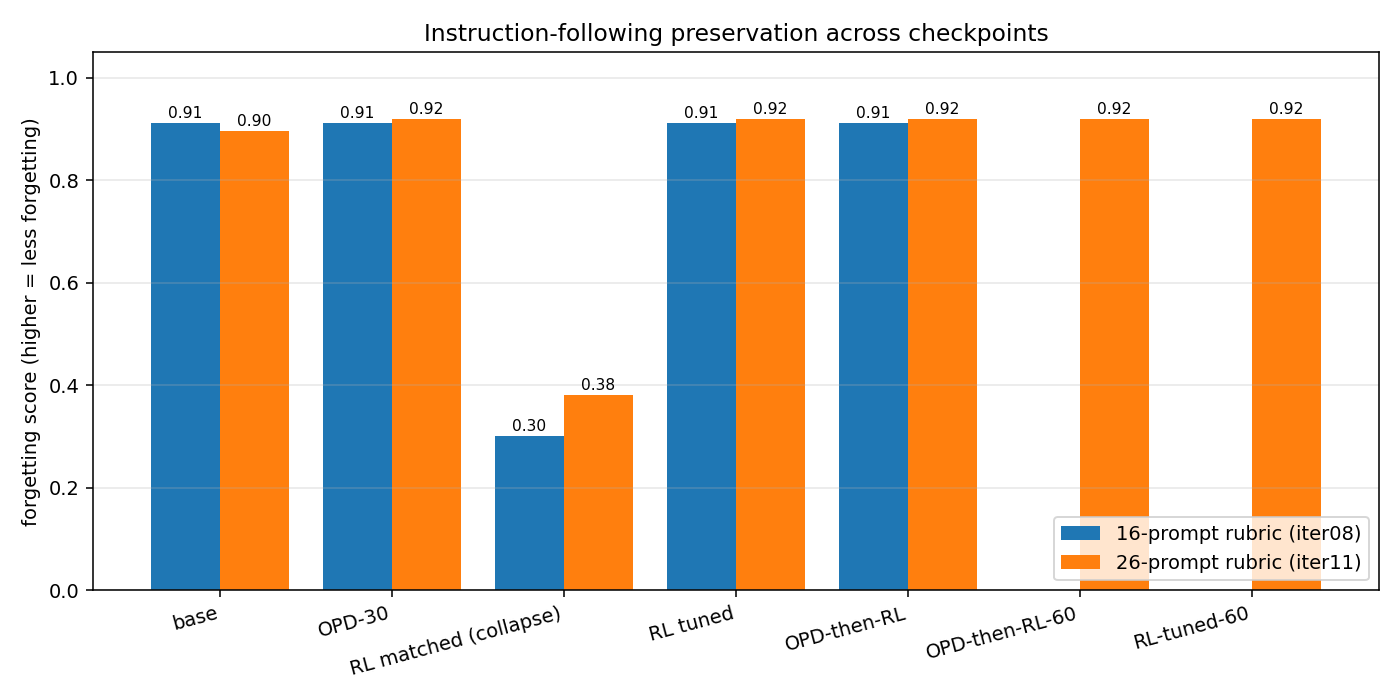
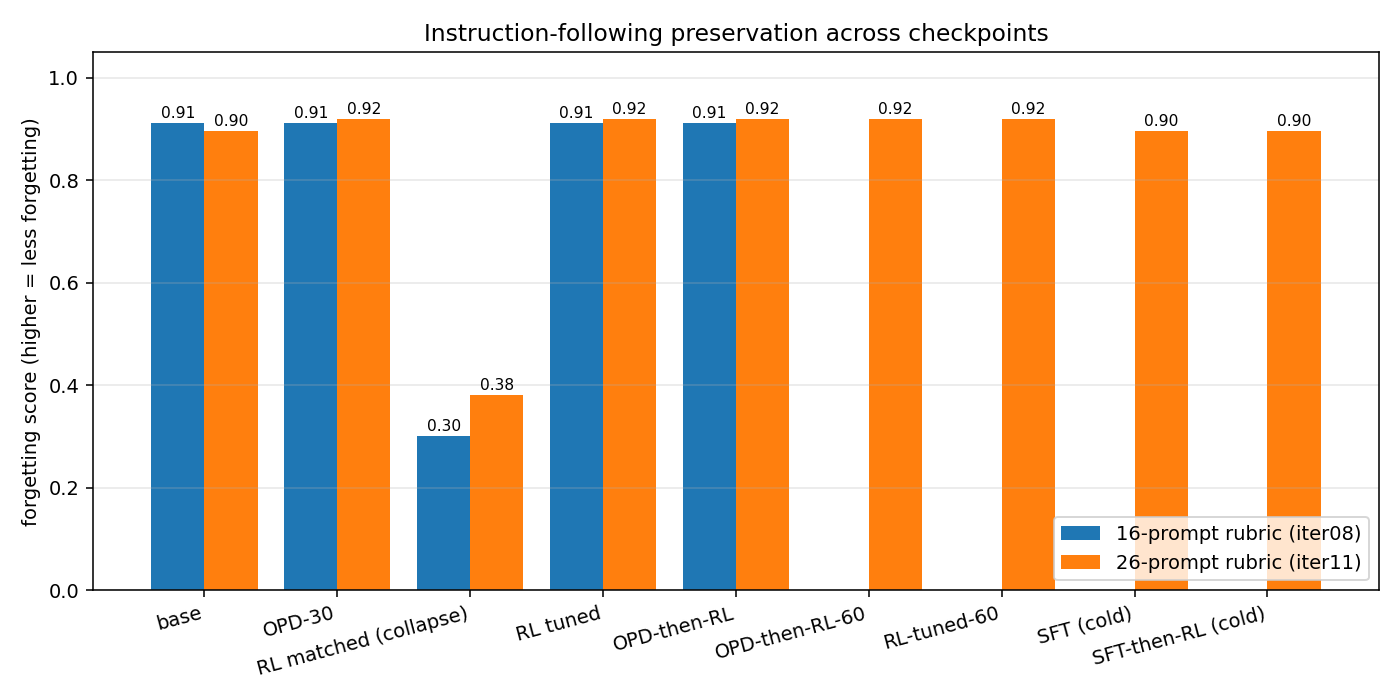
opd-rl: SFT forgetting eval (0.896 = no forgetting on both SFT-only and SFT-then-RL); update findings.md + figures

diff --git a/experiments/opd_rl/make_figures.py b/experiments/opd_rl/make_figures.py
@@ -139,7 +139,7 @@ scores16 = [
     json.loads((DATA / "forgetting-rl-tuned.json").read_text())["forgetting_score"],
     json.loads((DATA / "forgetting-opd-then-rl.json").read_text())["forgetting_score"],
 ]
-labels26 = labels16 + ["OPD-then-RL-60", "RL-tuned-60"]
+labels26 = labels16 + ["OPD-then-RL-60", "RL-tuned-60", "SFT (cold)", "SFT-then-RL (cold)"]
 scores26 = [
     json.loads((DATA / "forgetting2-base.json").read_text())["forgetting_score"],
     json.loads((DATA / "forgetting2-opd30.json").read_text())["forgetting_score"],
@@ -148,6 +148,8 @@ scores26 = [
     json.loads((DATA / "forgetting2-opd-then-rl.json").read_text())["forgetting_score"],
     json.loads((DATA / "forgetting2-opd-then-rl-60.json").read_text())["forgetting_score"],
     json.loads((DATA / "forgetting2-rl-tuned-60.json").read_text())["forgetting_score"],
+    json.loads((DATA / "forgetting2-sft-v2.json").read_text())["forgetting_score"],
+    json.loads((DATA / "forgetting2-sft-then-rl-v2.json").read_text())["forgetting_score"],
 ]
 
 fig, ax = plt.subplots(figsize=(10, 5))

diff --git a/experiments/opd_rl/findings.md b/experiments/opd_rl/findings.md
@@ -216,13 +216,13 @@ Tested whether the OPD-then-RL win scales with student "cold-start" — i.e. whe
 
 ### Five-way comparison on countdown-v2
 
-| variant                | last-10 mean correct | notes                                                        |
-| ---------------------- | -------------------- | ------------------------------------------------------------ |
-| RL-only (iter15)       | 16.5%                | RL barely moves from step-0 floor — signal too sparse        |
-| OPD-only (iter16)      | 12.4% (27/30 steps¹) | **WORSE than RL** — teacher KL pulls student toward teacher's already-weak distribution |
-| OPD-then-RL (iter17)   | 9.1%                 | peak 32% at step 17, then **declines** — RL gradient on cold env *degrades* the OPD warmstart |
-| SFT-only (iter18)      | 32.8% pass@1 / 45% pass@8 (step-0 iter19) | filtered-correct teacher data (276 examples), 4 epochs       |
-| **SFT-then-RL (iter19)** | **48.7% (peak 64%)** | per-decade 43→49→49% — RL builds on SFT init                |
+| variant                | last-10 mean correct | forgetting (26-prompt) | notes                                                        |
+| ---------------------- | -------------------- | ----- | ------------------------------------------------------------ |
+| RL-only (iter15)       | 16.5%                | (n/a) | RL barely moves from step-0 floor — signal too sparse        |
+| OPD-only (iter16)      | 12.4% (27/30 steps¹) | (n/a) | **WORSE than RL** — teacher KL pulls student toward teacher's already-weak distribution |
+| OPD-then-RL (iter17)   | 9.1%                 | (n/a) | peak 32% at step 17, then **declines** — RL gradient on cold env *degrades* the OPD warmstart |
+| SFT-only (iter18)      | 32.8% pass@1 / 45% pass@8 (step-0 iter19) | **0.896** | filtered-correct teacher data (276 examples), 4 epochs; **no forgetting** |
+| **SFT-then-RL (iter19)** | **48.7% (peak 64%)** | **0.896** | per-decade 43→49→49% — RL builds on SFT init; **no forgetting** |
 
 ¹ iter16 stalled at step 27 due to Tinker API contention with parallel teacher-data gen; the trajectory was flat at ~10% so the truncation does not change the conclusion.
 
@@ -239,6 +239,10 @@ When you then continue with RL (iter17), the gradient signal is sparse (frac_all
 SFT on `gen_teacher_data.py` filters to **only correct teacher trajectories** before training. The student sees 276 hand-verified-correct examples instead of the teacher's full distribution. The student learns the *successful subset* of the teacher's behavior, even when the teacher's overall pass rate is low. This filtering step is missing from OPD's loss by construction (you can't filter KL targets; KL is over the full token distribution).
 
 SFT-then-RL adds an additional +16pp on top of SFT-only (32.8% → 48.7%), so RL still helps — it just needs an initialization that wasn't already corrupted by OPD-on-cold-env.
+
+### Does SFT cause catastrophic forgetting?
+
+No — same as everything else in the stable-training regime. SFT-only and SFT-then-RL both score **0.896** on the 26-prompt IF rubric, identical to the untrained base (0.896). The narrow LoRA + filtered teacher data doesn't drag the student off general instruction-following. Forgetting on countdown is still entirely a function of training-time stability (only the collapsed iter05 matched-hp RL run lost IF — 0.30/0.38). This holds across every algorithm tested: OPD, tuned RL, OPD-then-RL, SFT, SFT-then-RL.
 
 ### The full picture: warm vs cold
 
